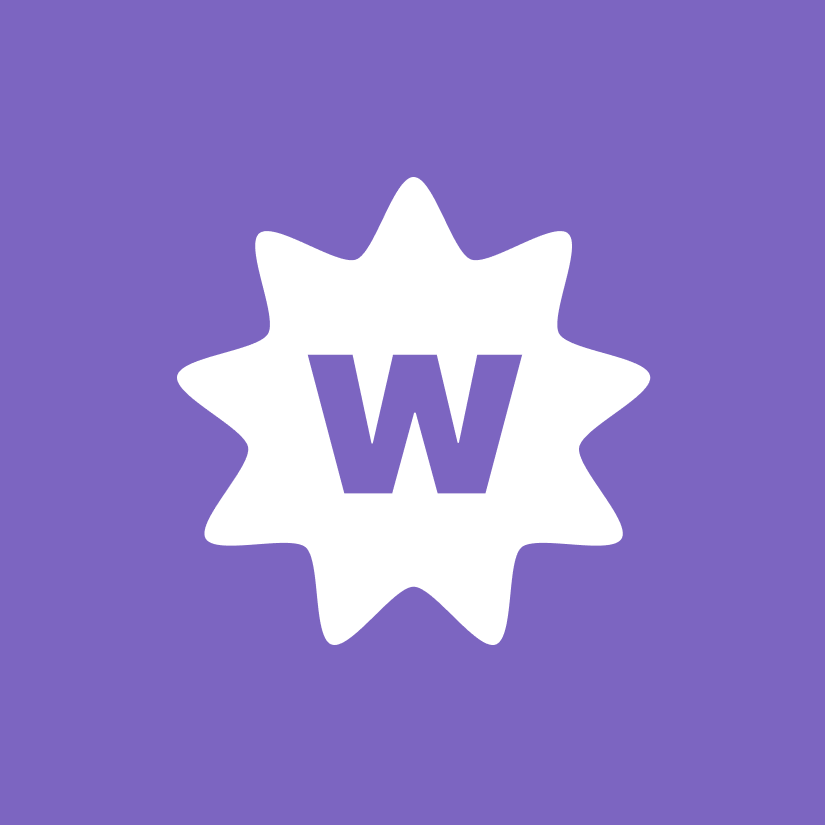
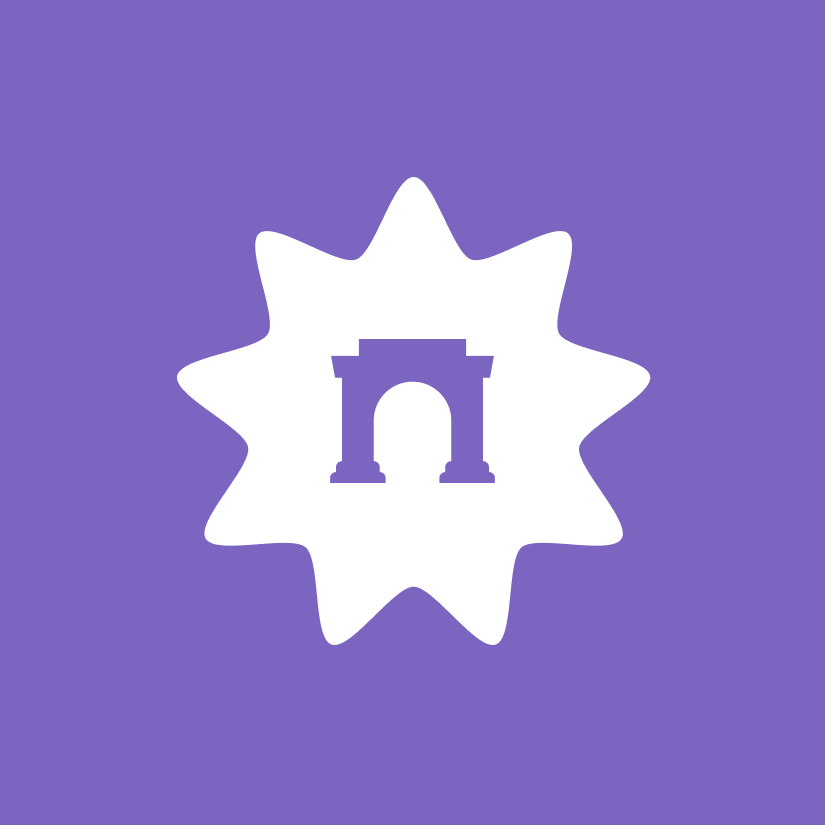
Rename from Warpcast Rewards to Rewards (#65)
See: https://warpcast.com/v/0xf809724b

Changed region(s): [[0.3636, 0.3939, 0.6364, 0.6061]]

diff --git a/src/app/layout.tsx b/src/app/layout.tsx
@@ -24,9 +24,9 @@ const frame = {
 export async function generateMetadata(): Promise<Metadata> {
   return {
     metadataBase: new URL('https://rewards.warpcast.com'),
-    title: 'Warpcast Rewards',
+    title: 'Rewards',
     openGraph: {
-      title: 'Warpcast',
+      title: 'Farcaster Rewards',
       description: 'Rewards',
       images: `https://rewards.warpcast.com/og.png`,
     },

diff --git a/src/components/ui/header.tsx b/src/components/ui/header.tsx
@@ -52,7 +52,7 @@ function Header() {
     <div className="w-full flex flex-row items-center justify-between p-4">
       <HeaderLogoSvg className="opacity-100" onClick={onLogoClick} />
       <div className="text-xl font-semibold pt-[2px] leading-[30px] h-[30px]">
-        Warpcast Rewards
+        Rewards
       </div>
       <div className="opacity-0 h-[30px] w-[30px]" />
     </div>

diff --git a/src/components/ui/loading.tsx b/src/components/ui/loading.tsx
@@ -10,7 +10,7 @@ function Loading({}: {}) {
       {/* eslint-disable-next-line @next/next/no-img-element */}
       <img
         src={SplashImage.src}
-        alt="Warpcast Rewards splash screen image"
+        alt="Rewards splash screen image"
         className="animate-pulse"
         style={{ marginTop: `-${FRAME_SPLASH_IMAGE_SIZE}px` }}
         width={FRAME_SPLASH_IMAGE_SIZE}
